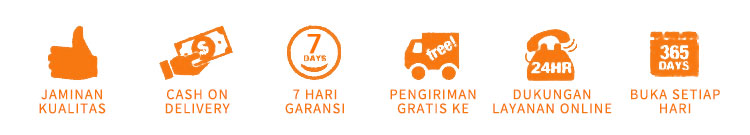
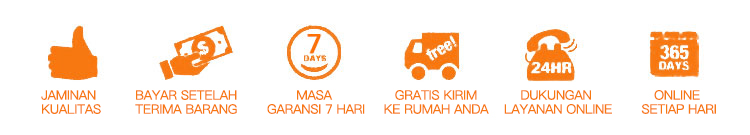
修改所有英文模板翻译

Changed region(s): [[0.184, 0.6519, 0.828, 0.8593], [0.828, 0.6519, 0.9813, 0.8593], [0.0307, 0.6519, 0.1533, 0.8593]]

diff --git a/public/css/googlePC_index.css b/public/css/googlePC_index.css
@@ -285,7 +285,7 @@ body{
 .pc_body .pc_detail_tab{
     padding: 0 20px 20px;
 }
-.pc_detail_tab_1 p{
+.pc_detail_tab_1 p,.pc_detail_tab_2 p{
     text-align: center;
     font-size:0;
 }

diff --git a/resources/views/home/FeiLvBin/flb.blade.php b/resources/views/home/FeiLvBin/flb.blade.php
@@ -214,7 +214,7 @@
                 <div>
                     <p>Items can only be returned for a refund if they are unopened, unused and in a re-saleable condition with all tamper-resistant seals, packaging and any cellophane intact. You must notify us in writing that you are returning your purchase within 14 days, beginning the day after the day on which you receive the product.</p>
                     <p>
-                    Please ensure that you also return any free gifts that are associated with your return items or the related order. If the free gift isn’t returned, then we reserve the right to deduct the value of the free gift from your refund.
+                    Please ensure that you also return any free gifts that are associated with your return items or the related order. If the free gift isn't returned, then we reserve the right to deduct the value of the free gift from your refund.
                     </p>
                     <p>
                     We recommend a photograph is taken of the item prior to returning it if you are concerned about damage during its return journey.

diff --git a/resources/views/home/MaLaiXiYa/mlxy.blade.php b/resources/views/home/MaLaiXiYa/mlxy.blade.php
@@ -214,7 +214,7 @@
                 <div>
                     <p>Items can only be returned for a refund if they are unopened, unused and in a re-saleable condition with all tamper-resistant seals, packaging and any cellophane intact. You must notify us in writing that you are returning your purchase within 14 days, beginning the day after the day on which you receive the product.</p>
                     <p>
-                    Please ensure that you also return any free gifts that are associated with your return items or the related order. If the free gift isn’t returned, then we reserve the right to deduct the value of the free gift from your refund.
+                    Please ensure that you also return any free gifts that are associated with your return items or the related order. If the free gift isn't returned, then we reserve the right to deduct the value of the free gift from your refund.
                     </p>
                     <p>
                     We recommend a photograph is taken of the item prior to returning it if you are concerned about damage during its return journey.

diff --git a/resources/views/home/YingGuo/yg.blade.php b/resources/views/home/YingGuo/yg.blade.php
@@ -232,7 +232,7 @@
                 <div>
                     <p>Items can only be returned for a refund if they are unopened, unused and in a re-saleable condition with all tamper-resistant seals, packaging and any cellophane intact. You must notify us in writing that you are returning your purchase within 14 days, beginning the day after the day on which you receive the product.</p>
                     <p>
-                    Please ensure that you also return any free gifts that are associated with your return items or the related order. If the free gift isn’t returned, then we reserve the right to deduct the value of the free gift from your refund.
+                    Please ensure that you also return any free gifts that are associated with your return items or the related order. If the free gift isn't returned, then we reserve the right to deduct the value of the free gift from your refund.
                     </p>
                     <p>
                     We recommend a photograph is taken of the item prior to returning it if you are concerned about damage during its return journey.

diff --git a/resources/views/home/googlePC/buy.blade.php b/resources/views/home/googlePC/buy.blade.php
@@ -316,7 +316,7 @@
                 <div>
                     <p>Items can only be returned for a refund if they are unopened, unused and in a re-saleable condition with all tamper-resistant seals, packaging and any cellophane intact. You must notify us in writing that you are returning your purchase within 14 days, beginning the day after the day on which you receive the product.</p>
                     <p>
-                    Please ensure that you also return any free gifts that are associated with your return items or the related order. If the free gift isn’t returned, then we reserve the right to deduct the value of the free gift from your refund.
+                    Please ensure that you also return any free gifts that are associated with your return items or the related order. If the free gift isn't returned, then we reserve the right to deduct the value of the free gift from your refund.
                     </p>
                     <p>
                     We recommend a photograph is taken of the item prior to returning it if you are concerned about damage during its return journey.

diff --git a/resources/views/home/zhongdong/zhongdong.blade.php b/resources/views/home/zhongdong/zhongdong.blade.php
@@ -214,7 +214,7 @@
                 <div>
                     <p>Items can only be returned for a refund if they are unopened, unused and in a re-saleable condition with all tamper-resistant seals, packaging and any cellophane intact. You must notify us in writing that you are returning your purchase within 14 days, beginning the day after the day on which you receive the product.</p>
                     <p>
-                    Please ensure that you also return any free gifts that are associated with your return items or the related order. If the free gift isn’t returned, then we reserve the right to deduct the value of the free gift from your refund.
+                    Please ensure that you also return any free gifts that are associated with your return items or the related order. If the free gift isn't returned, then we reserve the right to deduct the value of the free gift from your refund.
                     </p>
                     <p>
                     We recommend a photograph is taken of the item prior to returning it if you are concerned about damage during its return journey.
